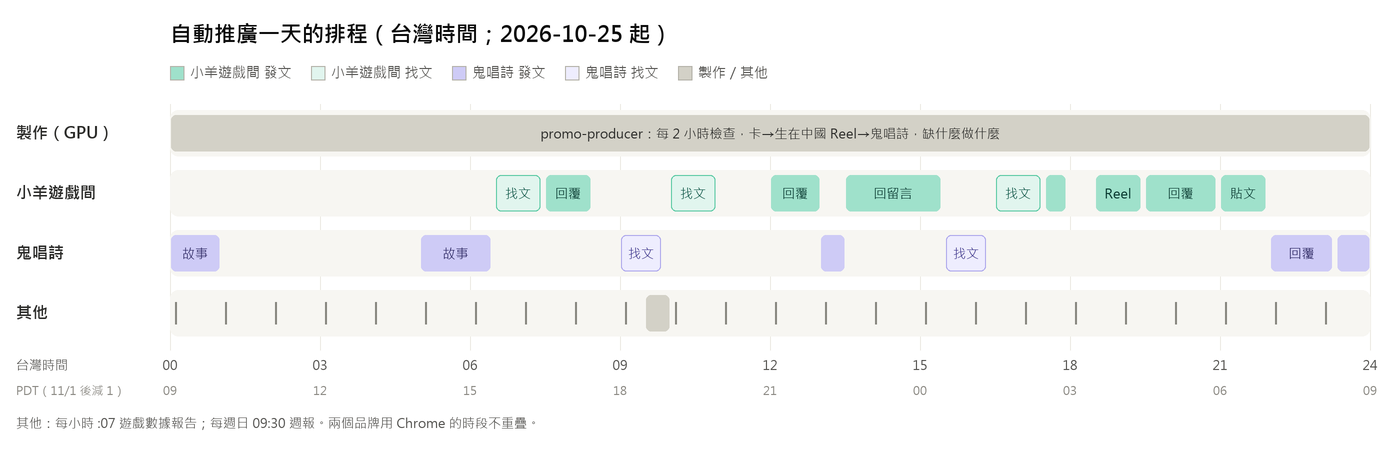
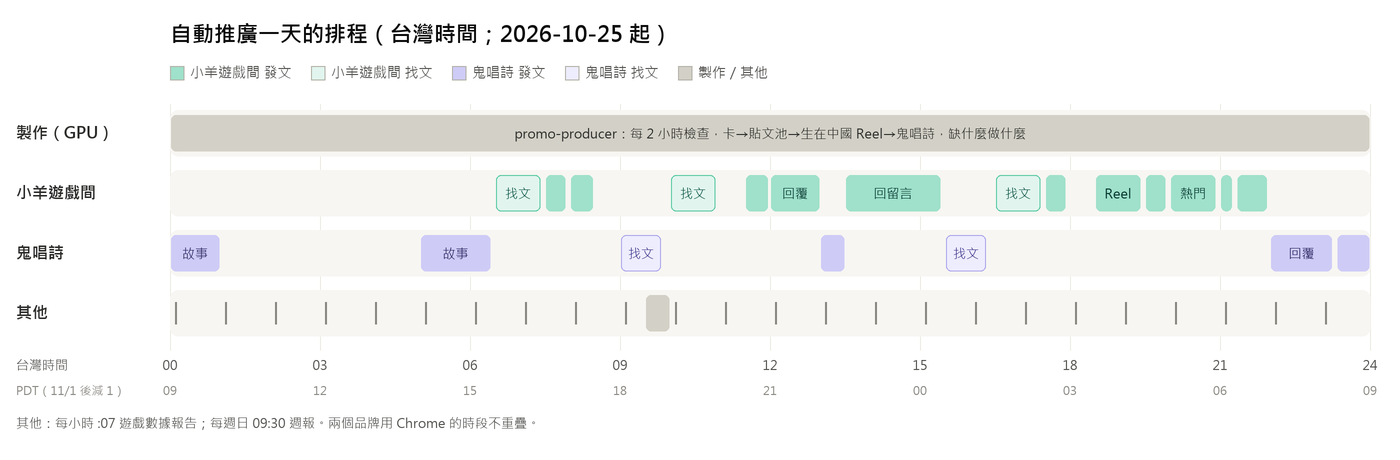
vault backup: 2026-10-24 22:07:29

diff --git a/Projects/auto promotion/schedule.md b/Projects/auto promotion/schedule.md
@@ -9,13 +9,15 @@
 
 | 台灣 | 你那邊 PDT（11/1 後減 1 小時） | 帳號 | 做什麼 | 排程 |
 |---|---|---|---|---|
-| 每 2 小時 | 每 2 小時 | — | 製作：分享卡補到 2 張 → 生在中國 Reel 補到 2 支 → 鬼唱詩補到 2 支 | promo-producer |
+| 每 2 小時 | 每 2 小時 | — | 製作：分享卡補到 2 張 → 貼文池補到 熱門 4＋開發日記 4（brand-post）→ 生在中國 Reel 補到 2 支 → 鬼唱詩補到 2 支 | promo-producer |
 | 23:20–01:00 | 08:20–10:00 | gui.chang.shi | 發鬼唱詩故事（深夜場） | promo-post-ghost-night |
 | 05:00–06:25 | 14:00–15:25 | gui.chang.shi | 發鬼唱詩故事（早上場） | promo-post-ghost-morning |
 | 06:30–07:25 | 15:30–16:25 | csiesheep.games | 遊戲回覆・早上：找文 | games-replies-morning-2 |
-| 07:30–08:25 | 16:30–17:25 | csiesheep.games | 遊戲回覆・早上：發 | games-replies-morning-2 |
+| 07:30–07:55 | 16:30–16:55 | csiesheep.games | 遊戲回覆・早上：發 | games-replies-morning-2 |
+| 08:00–08:28 | 17:00–17:28 | csiesheep.games | 熱門遊戲介紹 → Threads、IG、FB | promo-post-popular |
 | 09:00–09:50 | 18:00–18:50 | gui.chang.shi | 鬼唱詩回覆・中午：找文（先補發故事沒發完的平台） | ghost-reply-daily-1700-bypass |
 | 10:00–10:55 | 19:00–19:55 | csiesheep.games | 遊戲回覆・中午：找文 | games-replies-lunch-2 |
+| 11:30–11:58 | 20:30–20:58 | csiesheep.games | 開發日記 → Threads、IG、FB | promo-post-devnote-1130 |
 | 12:00–13:00 | 21:00–22:00 | csiesheep.games | 遊戲回覆・中午：發 | games-replies-lunch-2 |
 | 13:00、13:20 | 22:00、22:20 | gui.chang.shi | 鬼唱詩回覆・中午：發 | ghost-reply-post-1300、-1320 |
 | 13:30–15:25 | 22:30–00:25 | csiesheep.games | Threads 回留言：幫留言生日的人投胎回分享卡、回其他留言、記追蹤數 | promo-threads-1330 |
@@ -23,8 +25,10 @@
 | 16:30–17:25 | 01:30–02:25 | csiesheep.games | 遊戲回覆・晚上：找文 | games-replies-evening-2 |
 | 17:30–17:55 | 02:30–02:55 | csiesheep.games | 分享卡 → Threads | promo-post-cards |
 | 18:30–19:25 | 03:30–04:25 | csiesheep.games | 生在中國 Reel → IG、FB、Threads | promo-post-china-reel |
-| 19:30–20:55 | 04:30–05:55 | csiesheep.games | 遊戲回覆・晚上：發 | games-replies-evening-2 |
-| 21:00–21:55 | 06:00–06:55 | csiesheep.games | Threads 自己的貼文：一三五「留言生日幫你投胎」、二四六數據小知識（主貼文不放連結，連結在第一則自己的回覆） | promo-threads-2100 |
+| 19:30–19:55 | 04:30–04:55 | csiesheep.games | 遊戲回覆・晚上：發 | games-replies-evening-2 |
+| 20:00–20:55 | 05:00–05:55 | csiesheep.games | 熱門遊戲介紹 → Threads、IG、FB | promo-post-popular |
+| 21:00–21:15 | 06:00–06:15 | csiesheep.games | Threads 自己的貼文：一三五「留言生日幫你投胎」、二四六數據小知識（主貼文不放連結，連結在第一則自己的回覆） | promo-threads-2100 |
+| 21:20–21:57 | 06:20–06:57 | csiesheep.games | 開發日記 → Threads、IG、FB | promo-post-devnote-2120 |
 | 22:00–23:15 | 07:00–08:15 | gui.chang.shi | 鬼唱詩回覆・晚上：發（22:00、22:18、22:36、22:53、23:09） | ghost-reply-post-2200 … -2309 |
 | 每小時 :07 | 每小時 :07 | — | 遊戲數據報告 | games-stats-hourly |
 | 週日 09:30 | 週六 18:30 | — | 遊戲推廣週報（只報告） | games-weekly-review-2 |
@@ -35,7 +39,8 @@
 - 鬼唱詩回覆：每天每平台最多 7 則，不附連結。
 - 生在中國 Reel：每天 1 支（18:30）。分享卡：每天 1 張（17:30），挑同時期一萬生裡少見的人；我們自己的 Threads 貼文主文不放連結，連結放第一則自己的回覆。
 - 鬼唱詩故事：每天最多 2 支（05:00、23:20），沒有存貨就跳過。
-- 存貨目標：生在中國 Reel 2、鬼唱詩 2、分享卡 2。
+- 存貨目標：生在中國 Reel 2、鬼唱詩 2、分享卡 2、貼文池 8（熱門遊戲介紹 4＋開發日記 4，存在 `posts/<#>.md`）。
+- 貼文：每天 4 篇，熱門遊戲介紹 08:00、20:00，開發日記 11:30、21:20，三個平台都發。
 - 每週日週報另外寫 2 則開發日記草稿到 `drafts/`，由小羊挑來發。
 
 ## 時間怎麼對

diff --git a/Projects/auto promotion/posts/1.md b/Projects/auto promotion/posts/1.md
@@ -1,0 +1,19 @@
+---
+id: 1
+type: devnote
+game: china_life
+topic: "生在中國：從《80 億分之 1》到投胎中國歷史（設計、事件、地圖、實作、圖和音樂）"
+status: 已發
+created: 2026-10-25 12:20
+score: (小羊親自確認，未經 judge)
+---
+# 生在中國開發日記 #1：如果投胎到中國歷史上？
+
+小羊在 2026-10-25 親自確認文字後發出。內容：《80 億分之 1》帶來的靈感；42 個時期 × 49 欄位；約 640 筆史事、74 種病、143 座城市；十大區地圖、逃荒路線、地名照當年；引擎同種子同一生、跟 AI 一起寫程式；48 張時代插圖與音樂在本機 ComfyUI 生成；前後十多個小時。
+
+卡片：![[1/01.jpg]] ![[1/02.jpg]] ![[1/03.jpg]] ![[1/04.jpg]] ![[1/05.jpg]] ![[1/06.jpg]]
+
+## 發文紀錄
+- Threads（7 則串文）：https://www.threads.com/@csiesheep.games/post/De53DNEFCc8
+- Facebook 粉專：已發（長文＋6 張卡）
+- Instagram：台灣 13:31 發（輪播 6 張）
